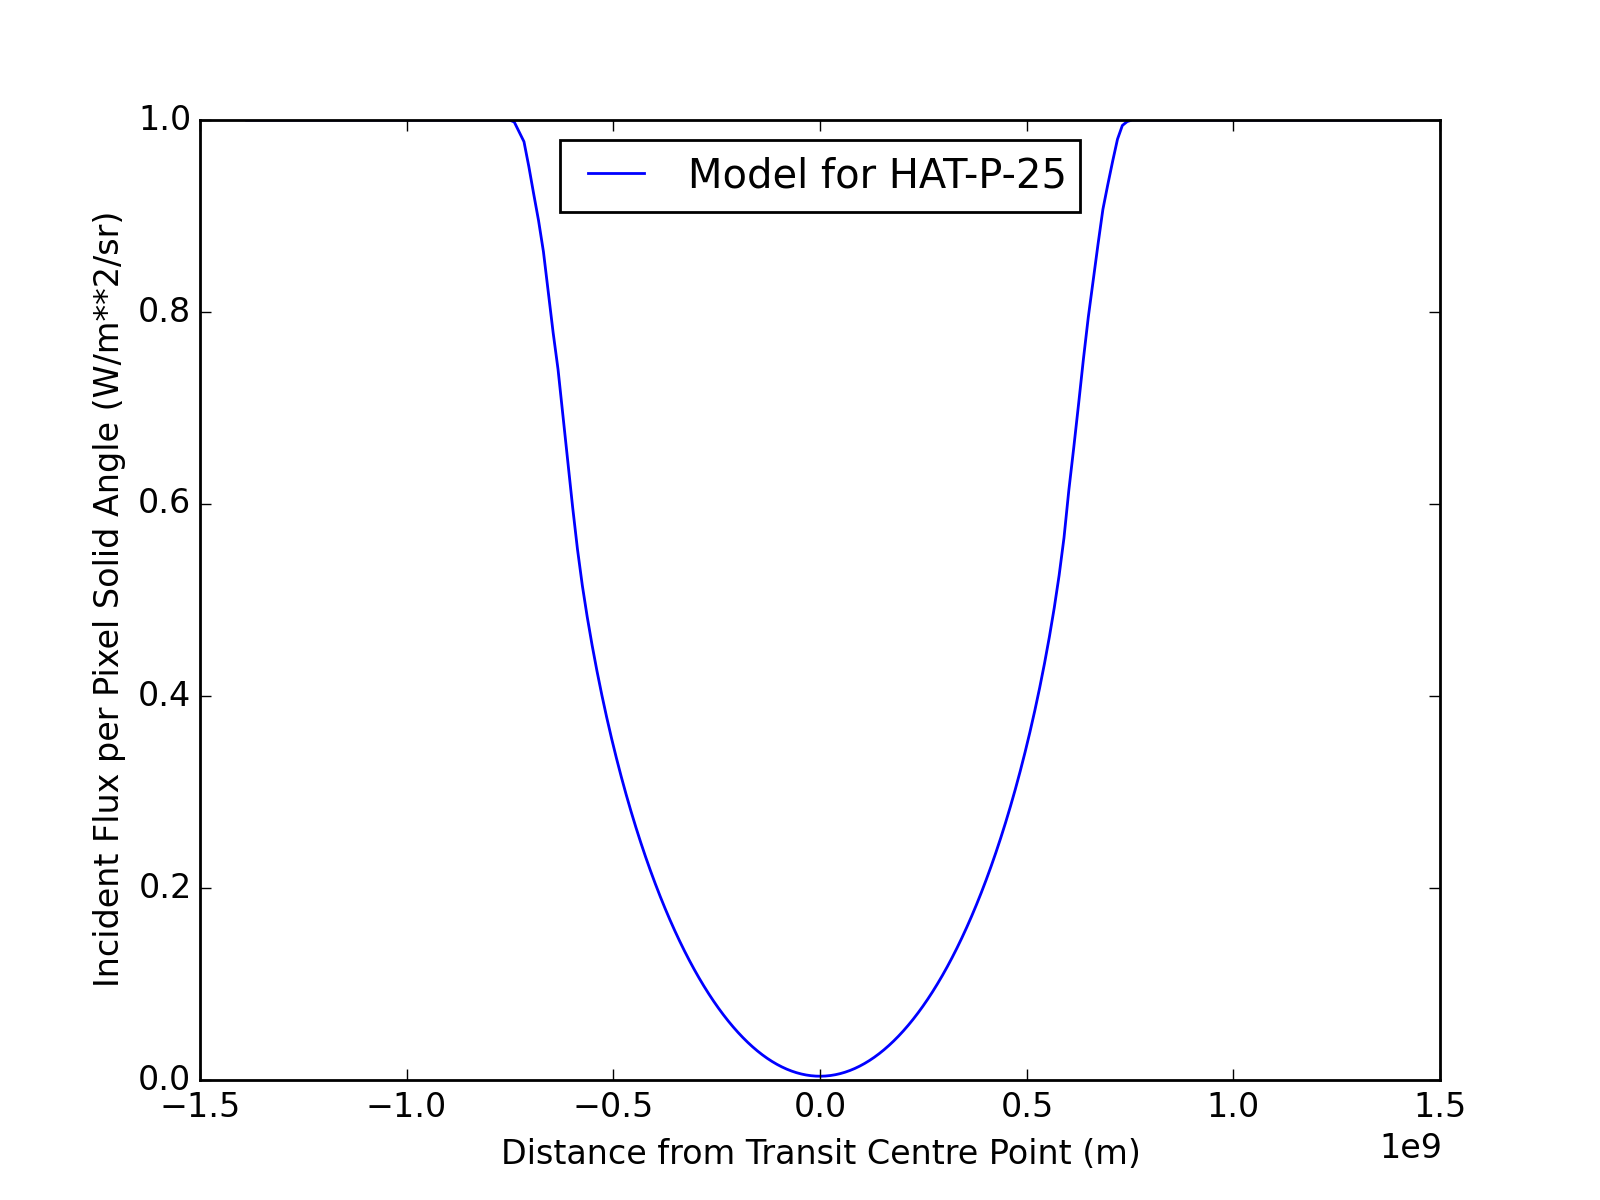
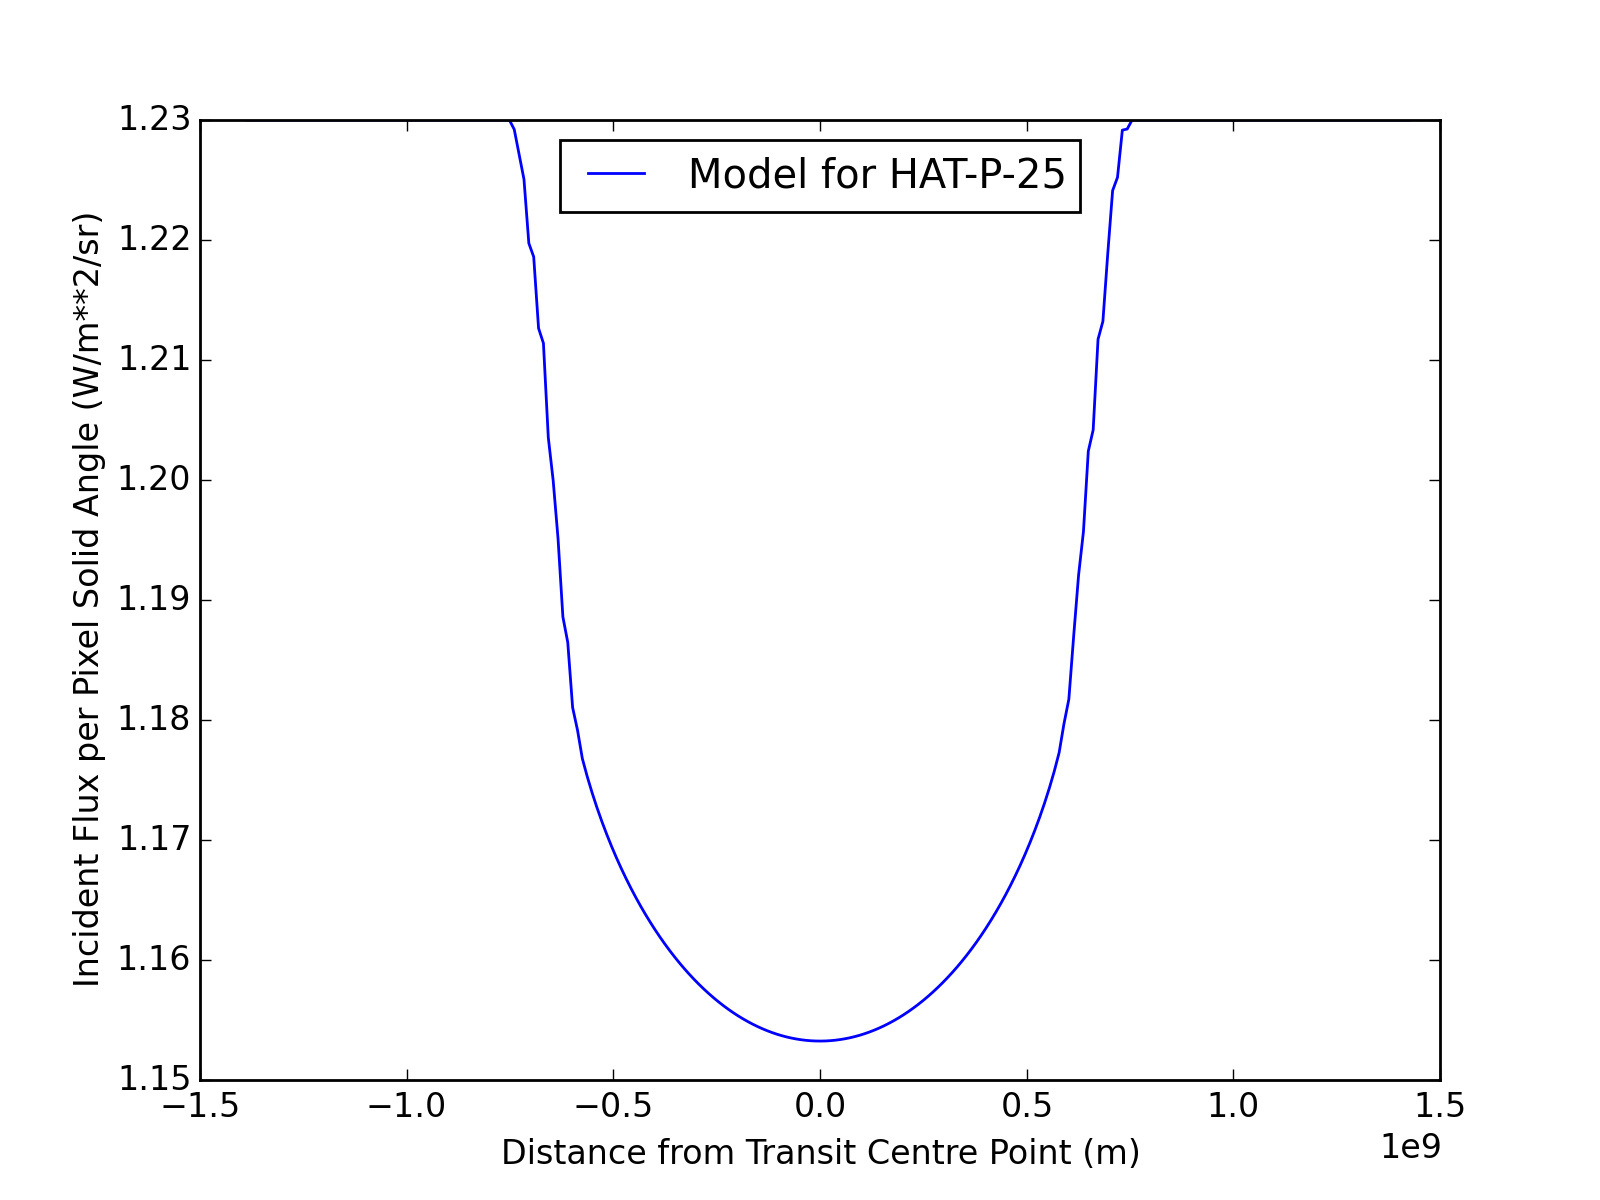
Potential fix for excessive dip
Changed I_0 to value calculated using magnitudes and flux. DO NOT USE
FOR ANYTHING OTHER THAN HAT-P-25 IN CURRENT STATE.

diff --git a/Data/modelv2.py b/Data/modelv2.py
@@ -10,7 +10,7 @@ Script: Prototype for modelling exoplanetary lightcurves
 import numpy as np
 from matplotlib.pyplot import *
 
-def model(start, mid, end, nobs, Mstar, Rstar, Mplanet, Rplanet, radius, a, mu, npix):
+def model(start, mid, end, nobs, Mstar, Rstar, Mplanet, Rplanet, radius, a, mu, i):
 
     '''
     Takes a planetary system consisting of an exoplanet of mass M_planet
@@ -28,14 +28,14 @@ def model(start, mid, end, nobs, Mstar, Rstar, Mplanet, Rplanet, radius, a, mu, 
     ##########################################################################
 
     # Define constants
-    G = 6.673e-11 # Universal gravitational constant
-    #m_ref = -1.5 # Apparent magnitude of Sirius
-    #I_ref = (40*3.846e26)/(4*np.pi*(9.46e15)**2) # Intensity of Sirius. Units: W/m**2
+    G = 6.673E-11 # Universal gravitational constant
+    m_ref = -1.5 # Apparent magnitude of Sirius
+    I_ref = (40*3.846e26)/(4*np.pi*(9.46e15)**2) # Intensity of Sirius. Units: W/m**2
     # N.B. Above is from I = L/4piR**2 where R = distance from Earth
 
     # Determine intensity of star (from apparent magnitude equation)
-    #I_0 = I_ref*10**((2.5)*(m_ref-11.69))
-    I_0 = 1
+    I_0 = I_ref*10**((2.5)*(13.19-11.69))
+    #I_0 = 0.001
 
 
     ##########################################################################
@@ -84,7 +84,7 @@ def model(start, mid, end, nobs, Mstar, Rstar, Mplanet, Rplanet, radius, a, mu, 
     y = np.linspace(-radius, +radius, (2*radius+1))
 
     # Tiles these 2 arrays into cartesian coordinate pairs
-    coords = np.transpose([np.tile(x, len(y)), np.repeat(y, len(x))])
+    coords = np.transpose([np.tile(x, len(y-1)), np.repeat(y, len(x-1))])
 
     # Splits that 2d array into 1d arrays of all x and y points. This 
     # differs from x and y by being the (x,y) coordinates of each pair,
@@ -109,6 +109,9 @@ def model(start, mid, end, nobs, Mstar, Rstar, Mplanet, Rplanet, radius, a, mu, 
     x_exo = np.asarray(x_exo)
     y_exo = np.asarray(y_exo)
 
+    print x_exo*(radius/Rplanet)
+    print y_exo*(radius/Rplanet)
+
 
     ##########################################################################
     ################### Compute positions relative to star ###################
@@ -125,7 +128,9 @@ def model(start, mid, end, nobs, Mstar, Rstar, Mplanet, Rplanet, radius, a, mu, 
     F_A = np.zeros(len(X_pos))
 
     # Determine y position (distance perpendicular to x position)
-    #Y_pos = a*(np.arcsin(2*pi - radians(i)))    
+    #Y_pos = a*(np.arcsin(2*pi - radians(i)))  
+    #Y_pos = a*(np.tan(i))  
+    Y_pos = 0
 
     # Declare array to house distances from centre of star
     #dpix = np.zeros((len(X_pos)))
@@ -136,18 +141,17 @@ def model(start, mid, end, nobs, Mstar, Rstar, Mplanet, Rplanet, radius, a, mu, 
     ##########################################################################
     
     # Determine position (postion from transit midpoint across stellar disk)
-    for i in range(0, len(X_pos)):
+    for i in range(len(X_pos)):
         F_block = 0
         count = 0
-        for j in range(0, len(x_exo)):
+        for j in range(len(x_exo)):
             
             #X_pos[i] = a*np.sin((phase[i]))
             #X_pos[i] = vorb*T[i]
 
             # Determine distance between centre of planetary disk and stellar disk
             # The numpy.sqrt allows sqrt of an array
-            dpix_a = np.sqrt(((X_pos[i] + x_exo[j])**2) + y_exo[j]**2)
-            #dpix[j] = dpix_a
+            dpix_a = np.sqrt(((X_pos[i] + x_exo[j])**2) + (Y_pos + y_exo[j])**2)
 
             # Loop over intervals of d to calculate flux blocked. If the distance
             # to the exoplanet lies within the radius of the star, the flux blocked
@@ -156,9 +160,8 @@ def model(start, mid, end, nobs, Mstar, Rstar, Mplanet, Rplanet, radius, a, mu, 
             # a 0 value (as is in the array anyway). 
             if dpix_a <= Rstar:
                 count += 1
-                F_block += (I_0*(1-mu*(1-np.sqrt(1-(dpix_a/Rstar)**2)))/len(x_exo))
 
-            print count
+                F_block += (I_0*(1-mu*(1-np.sqrt(1-(dpix_a/Rstar)**2)))/len(x_exo))
 
         F_A[i] = F_block
 
@@ -169,7 +172,7 @@ def model(start, mid, end, nobs, Mstar, Rstar, Mplanet, Rplanet, radius, a, mu, 
        
     # Use simplified form of equation 7 to determine off-transit flux
     #F = np.ones(len(X_pos))*(I_0*(1-mu))
-    F = np.ones(len(X_pos))
+    F = np.ones(len(X_pos))*1.23
 
     # Subtract flux blocked from F to determine total flux per unit pixel solid angle 
     tot_F = F - F_A

diff --git a/Data/WASP-78b/Photometry/lightcurve.py b/Data/WASP-78b/Photometry/lightcurve.py
@@ -40,7 +40,12 @@ calib4 = data[where(data==5)[0],6]
 calib5 = data[where(data==6)[0],6]
 calib6 = data[where(data==7)[0],6]
 calib7 = data[where(data==8)[0],6]
-calib8 = data[where(data==6)[0],6]
+calib8 = data[where(data==9)[0],6]
+calib9 = data[where(data==10)[0],6]
+calib10 = data[where(data==11)[0],6]
+calib11 = data[where(data==12)[0],6]
+calib12 = data[where(data==13)[0],6]
+calib13 = data[where(data==14)[0],6]
 sky = data[where(data==15)[0],6]
 radius = data[where(data==1)[0],8]
 
@@ -180,6 +185,11 @@ curve5, error5 = lightcurve(source, calib5, sky, pix, dark, rdnoise)
 curve6, error6 = lightcurve(source, calib6, sky, pix, dark, rdnoise)
 curve7, error7 = lightcurve(source, calib7, sky, pix, dark, rdnoise)
 curve8, error8 = lightcurve(source, calib8, sky, pix, dark, rdnoise)
+curve9, error9 = lightcurve(source, calib9, sky, pix, dark, rdnoise)
+curve10, error10 = lightcurve(source, calib10, sky, pix, dark, rdnoise)
+curve11, error11 = lightcurve(source, calib11, sky, pix, dark, rdnoise)
+curve12, error12 = lightcurve(source, calib12, sky, pix, dark, rdnoise)
+curve13, error13 = lightcurve(source, calib13, sky, pix, dark, rdnoise)
 
 
 ################################## Plot data ##################################
@@ -226,3 +236,67 @@ xlabel('Frame Number')
 ylabel('Calibrated Flux')
 legend(loc='best')
 savefig('curve5.png')
+
+figure(10)
+errorbar(frames, curve6, yerr=error6)
+plot(frames, curve6, 'r.', label='Calibrated wrt calib6')
+xlabel('Frame Number')
+ylabel('Calibrated Flux')
+legend(loc='best')
+savefig('curve6.png')
+
+figure(11)
+errorbar(frames, curve7, yerr=error7)
+plot(frames, curve7, 'r.', label='Calibrated wrt calib7')
+xlabel('Frame Number')
+ylabel('Calibrated Flux')
+legend(loc='best')
+savefig('curve7.png')
+
+figure(12)
+errorbar(frames, curve8, yerr=error8)
+plot(frames, curve8, 'r.', label='Calibrated wrt calib8')
+xlabel('Frame Number')
+ylabel('Calibrated Flux')
+legend(loc='best')
+savefig('curve8.png')
+
+figure(13)
+errorbar(frames, curve9, yerr=error9)
+plot(frames, curve9, 'r.', label='Calibrated wrt calib9')
+xlabel('Frame Number')
+ylabel('Calibrated Flux')
+legend(loc='best')
+savefig('curve9.png')
+
+figure(14)
+errorbar(frames, curve10, yerr=error10)
+plot(frames, curve10, 'r.', label='Calibrated wrt calib10')
+xlabel('Frame Number')
+ylabel('Calibrated Flux')
+legend(loc='best')
+savefig('curve10.png')
+
+figure(15)
+errorbar(frames, curve11, yerr=error11)
+plot(frames, curve11, 'r.', label='Calibrated wrt calib11')
+xlabel('Frame Number')
+ylabel('Calibrated Flux')
+legend(loc='best')
+savefig('curve11.png')
+
+figure(16)
+errorbar(frames, curve12, yerr=error12)
+plot(frames, curve12, 'r.', label='Calibrated wrt calib12')
+xlabel('Frame Number')
+ylabel('Calibrated Flux')
+legend(loc='best')
+savefig('curve5.png')
+
+figure(17)
+errorbar(frames, curve13, yerr=error13)
+plot(frames, curve13, 'r.', label='Calibrated wrt calib13')
+xlabel('Frame Number')
+ylabel('Calibrated Flux')
+legend(loc='best')
+savefig('curve13.png')

diff --git a/Data/hatp25model.py b/Data/hatp25model.py
@@ -12,24 +12,24 @@ from modelv2 import *
 
 from matplotlib.pyplot import *
 
-Mstar = 1.01*1.9891e30 # kg
-Rstar = 0.959*6.955e8 # m
-Mplanet = 0.567*1.9e27 # kg
-Rplanet = 1.19*(6.9e7) # m
-radius = 5 # 4 pixel radii planet
+Mstar = 1.01*1.9891E30 # kg
+Rstar = 0.959*6.955E8 # m
+Mplanet = 0.567*1.9E27 # kg
+Rplanet = 1.19*(6.9E7) # m
+radius = 4 # 4 pixel radii planet
 end = 36537 # s
 mid = 26257 # s
 start = 16257 # s
 nobs = 240 # Number of observations
 dur = 36537-22157 # Frame 222 - Frame 40
-a = 0.0466*149.6e9 # m
+a = 0.0466*149.6E9 # m
 i = 86.0 # deg
-mu = 1
+mu = 0.6
 app_mag = 11.69
 
 # Call model
 #x, y = model(Mstar, Rstar, Mplanet, Rplanet, radius, obs_end, trans_mid, nobs, a, i, mu, app_mag)
-F, X, T = model(start, mid, end, nobs, Mstar, Rstar, Mplanet, Rplanet, radius, a, mu, 100)
+F, X, T = model(start, mid, end, nobs, Mstar, Rstar, Mplanet, Rplanet, radius, a, mu, i)
 #F, D = model(Rstar, a, mu, timestep, app_mag)
 
 # Plot data
